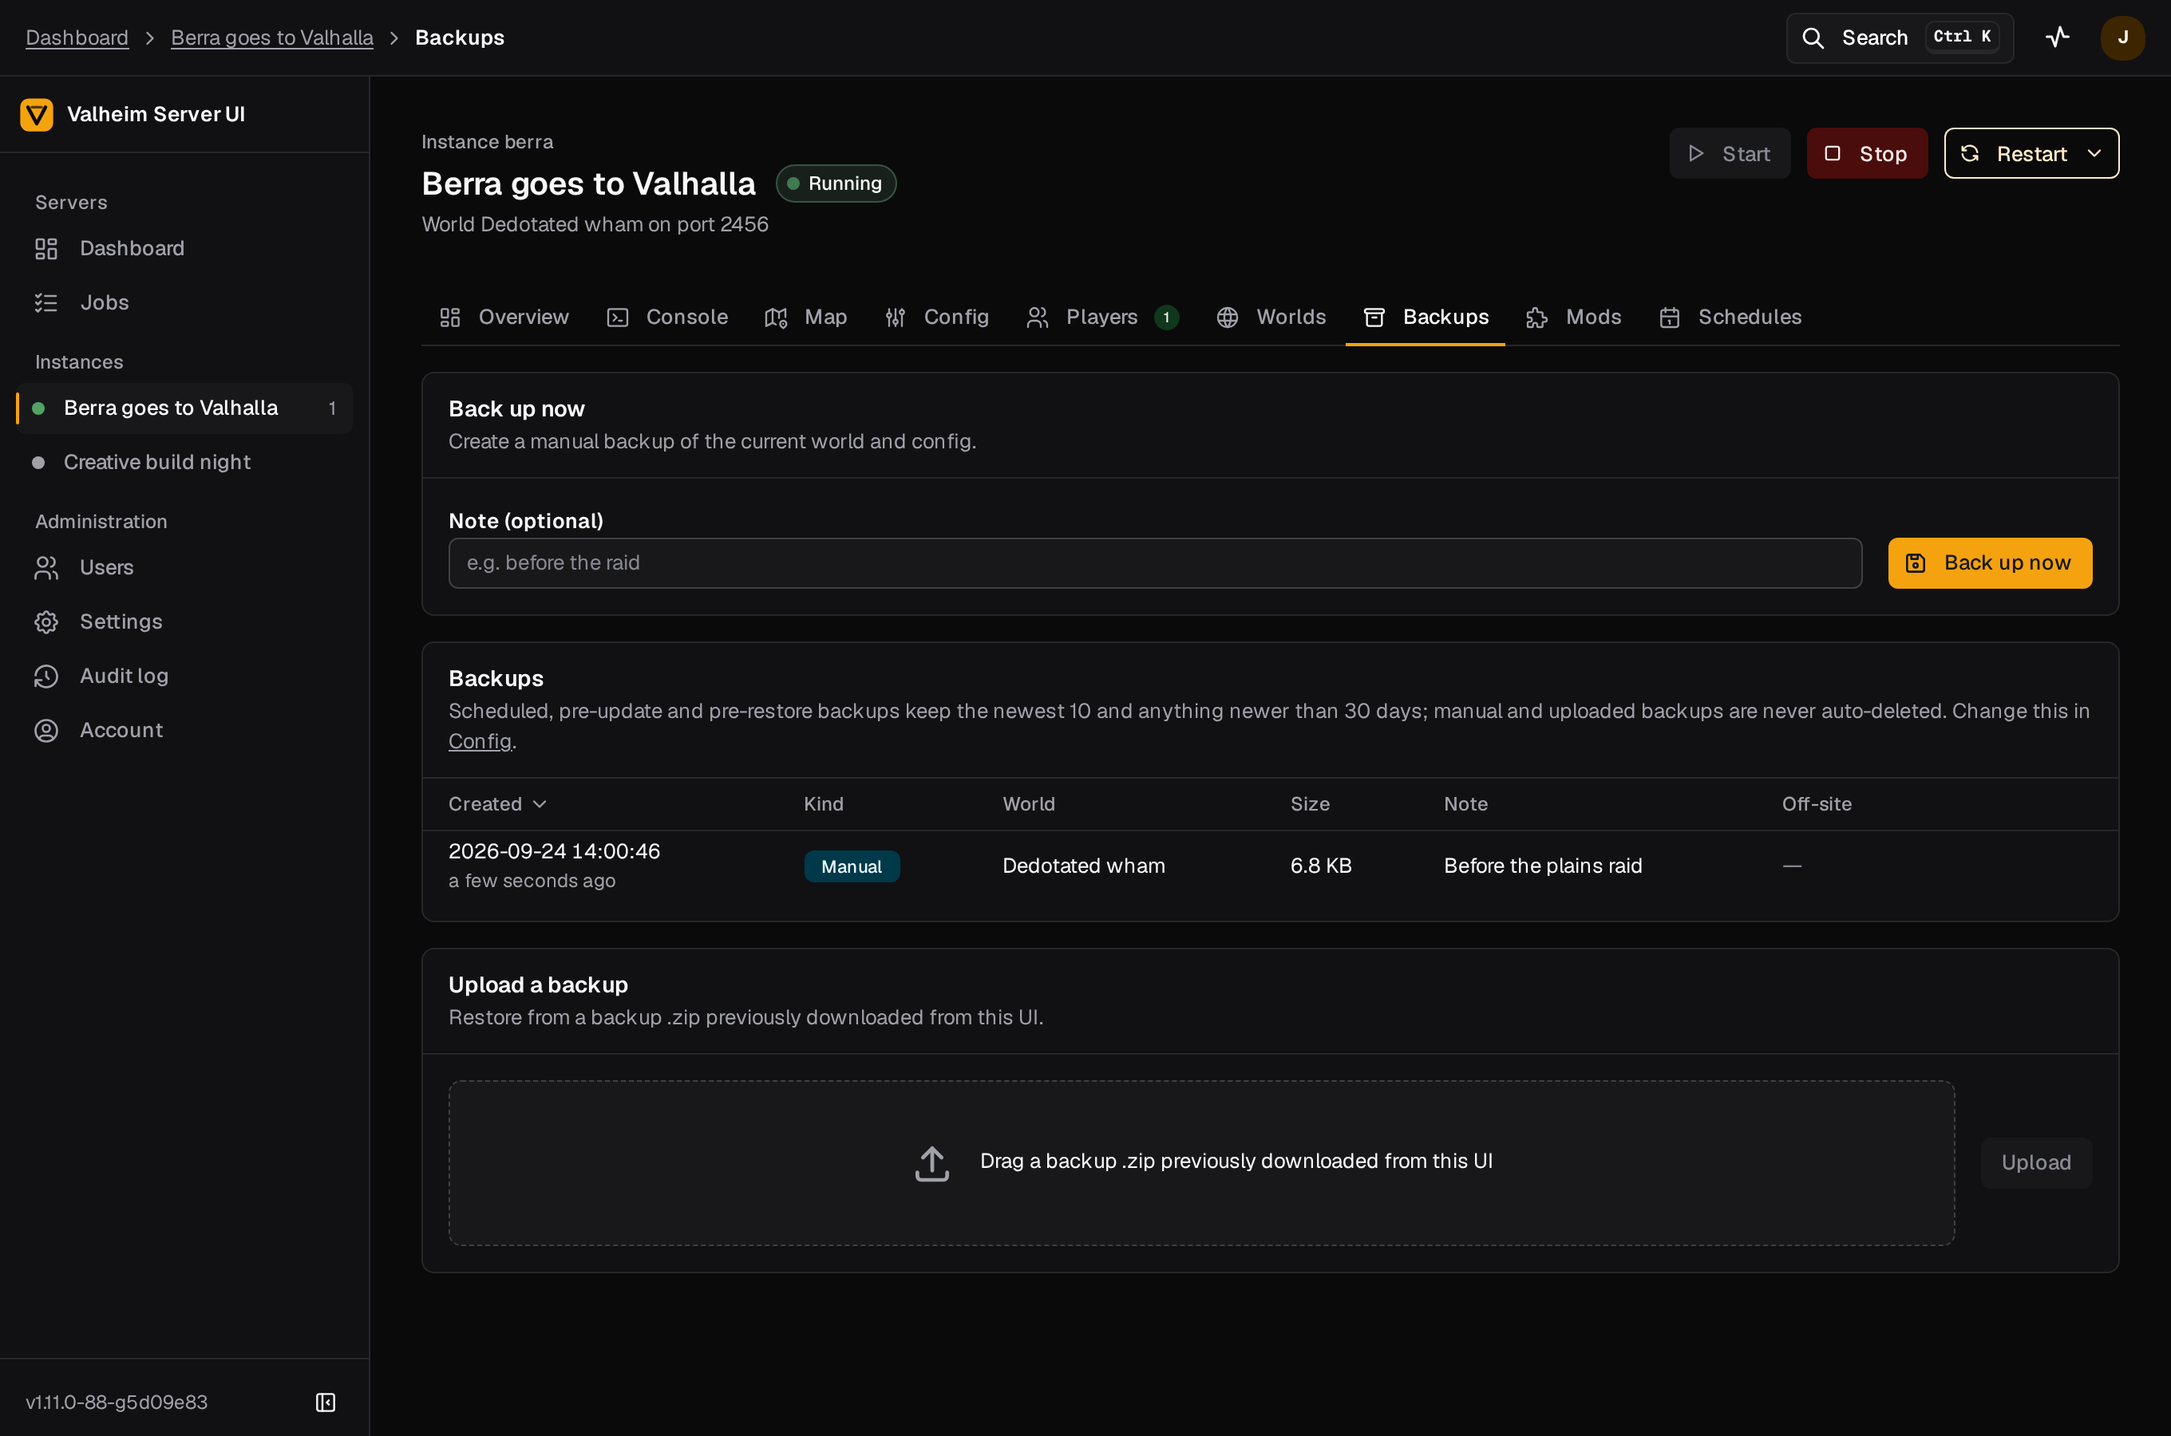
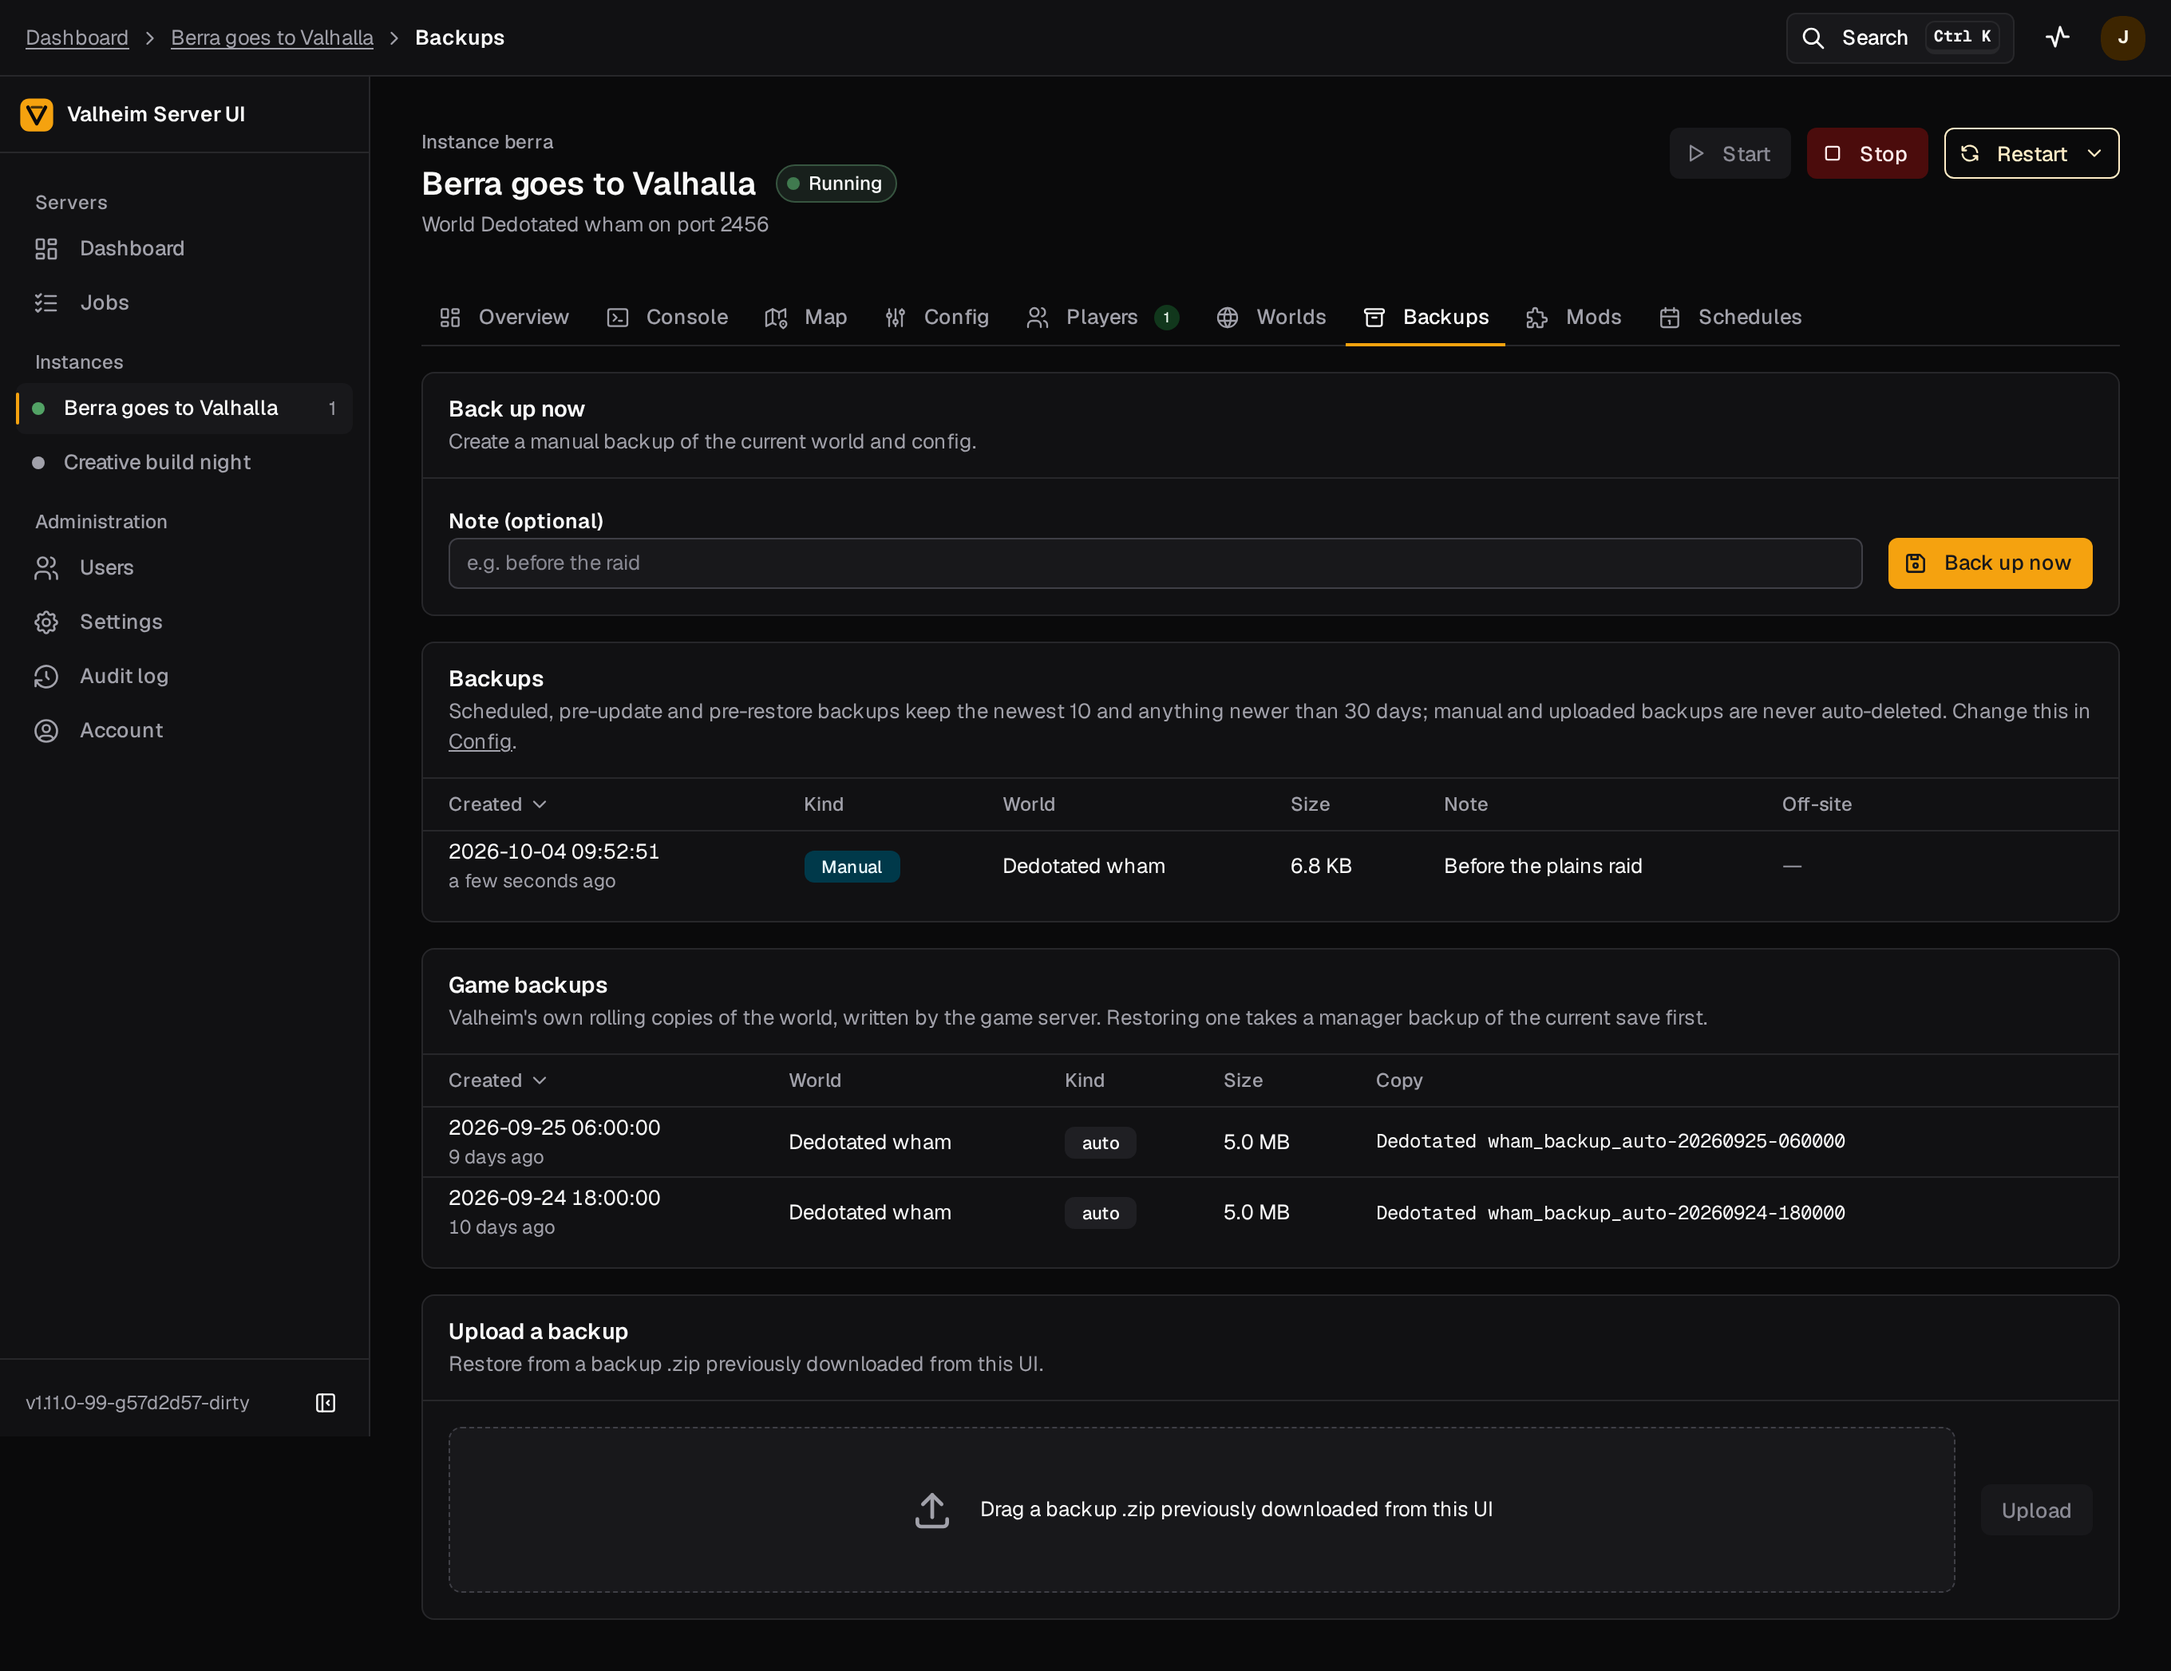
release: 1.19.0
Game backup names are parsed in both timestamp forms the game has used
(yyyyMMdd-HHmmss in the current build, fourteen digits before) and in the
server's local time; the screenshot script seeds two rolling copies so the
Backups render and the accessibility check cover the Game backups table.

diff --git a/web/src/api/schema.d.ts b/web/src/api/schema.d.ts
@@ -4597,7 +4597,7 @@ export interface components {
             layout: "directory" | "legacy";
             /**
              * Format: date-time
-             * @description Parsed from the timestamp in the name (UTC); the newest file's mtime when the name carries none
+             * @description Parsed from the timestamp in the name (the game server's local time; yyyyMMdd-HHmmss or the older yyyyMMddHHmmss); the newest file's mtime when the name carries none
              */
             created_at: string;
             /** Format: int64 */

diff --git a/internal/backup/gamebackups_test.go b/internal/backup/gamebackups_test.go
@@ -13,7 +13,7 @@ import (
 )
 
 func TestGameBackupParseStem(t *testing.T) {
-	ts := time.Date(2026, 9, 9, 14, 48, 3, 0, time.UTC)
+	ts := time.Date(2026, 9, 9, 14, 48, 3, 0, time.Local)
 	tests := []struct {
 		name   string
 		stem   string
@@ -24,6 +24,7 @@ func TestGameBackupParseStem(t *testing.T) {
 	}{
 		{"auto", "Midgard_backup_auto-20260909144803", "Midgard", "auto", ts, true},
 		{"cloud", "Midgard_backup_cloud-20260909144803", "Midgard", "cloud", ts, true},
+		{"current game format with a dash", "Midgard_backup_auto-20260909-144803", "Midgard", "auto", ts, true},
 		{"restore", "Midgard_backup_restore-20260909144803", "Midgard", "restore", ts, true},
 		{"world name contains _backup_", "My_backup_World_backup_auto-20260909144803", "My_backup_World", "auto", ts, true},
 		{"world name contains a marker", "A_backup_auto-1_backup_cloud-20260909144803", "A_backup_auto-1", "cloud", ts, true},
@@ -119,7 +120,7 @@ func TestGameBackupScan(t *testing.T) {
 	if got[4].SizeBytes != int64(len("db")+len("fwl")) {
 		t.Errorf("legacy size = %d, want sum of the pair", got[4].SizeBytes)
 	}
-	if got[0].World != "Midgard" || !got[0].CreatedAt.Equal(time.Date(2026, 9, 10, 9, 0, 0, 0, time.UTC)) {
+	if got[0].World != "Midgard" || !got[0].CreatedAt.Equal(time.Date(2026, 9, 10, 9, 0, 0, 0, time.Local)) {
 		t.Errorf("unexpected world/created_at: %+v", got[0])
 	}
 }

diff --git a/internal/backup/gamebackups.go b/internal/backup/gamebackups.go
@@ -17,8 +17,14 @@ import (
 const (
 	gameBackupLayoutDirectory = "directory"
 	gameBackupLayoutLegacy    = "legacy"
-	gameBackupTimeLayout      = "20060102150405"
 )
+
+// gameBackupTimeLayouts are the timestamp forms Valheim has used in rolling
+// copy names: SaveSystem.s_defaultDateFormat is "yyyyMMdd-HHmmss" in the
+// current game; older builds wrote fourteen digits without the dash. The
+// game formats DateTime.Now, i.e. the server's local time, and the manager
+// runs on the same host, so the stamps are parsed in time.Local.
+var gameBackupTimeLayouts = []string{"20060102-150405", "20060102150405"}
 
 // gameBackupMarkers maps each separator Valheim puts between a world name and
 // the timestamp to the kind it denotes.
@@ -45,8 +51,11 @@ func parseGameBackupStem(stem string) (world, kind string, ts time.Time, ok bool
 	if !validWorldName(world) {
 		return "", "", time.Time{}, false
 	}
-	if t, err := time.ParseInLocation(gameBackupTimeLayout, stem[best+bestLen:], time.UTC); err == nil {
-		ts = t
+	for _, layout := range gameBackupTimeLayouts {
+		if t, err := time.ParseInLocation(layout, stem[best+bestLen:], time.Local); err == nil {
+			ts = t
+			break
+		}
 	}
 	return world, bestKind, ts, true
 }
